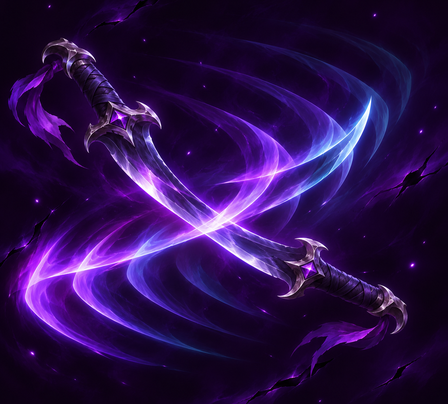
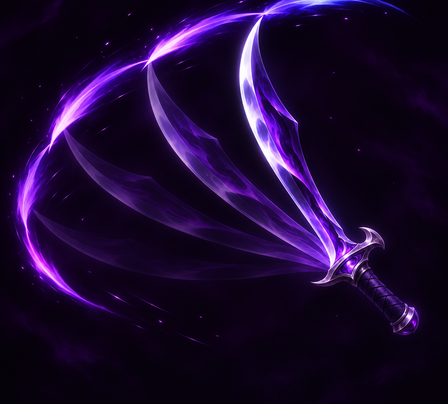
R804：连斩 9272 卡图重出 —— 构图改为「同一护手扇面展开」的多重刀影
R803 那版是两把刀对称交叉成 X，读作双持/格挡，且交叉处刀身互穿、两端刀柄
都在卡面可见带外。问题出在 prompt 设定（原文写着「两把交错挥出的短弯刀」）。

新版约束：全图只允许一处刀柄/护手，4 道刀身从同一护手呈扇面辐射，
最外侧最亮最实（最后一刀）、越内越虚，四条刃光连成一条大弧线作节奏线。
两版候选中取 b（弯刃实体感在、护手与刀柄完整落在可见带内）；
c 版虽铺满更亮，但刀身变直线光条读作羽扇、护手贴边刀柄被裁，弃用。

裁切 dy=+40（主体天然偏右下），成品 448×404，md5 11ce956e。

验证：九套回归全绿 engine 6637 / traps 206 / trapinput 77 / smoke 75 /
reward 26 / bgm 39 / content 15 / assemble 0 / mana PASS；存档 md5 一致。

diff --git a/tools/_make_r804_cardart.py b/tools/_make_r804_cardart.py
@@ -1,0 +1,69 @@
+# -*- coding: utf-8 -*-
+"""R804：连斩 9272 卡图重出（构图修正：同一护手扇面，非双刀交叉）→ 448×404。
+
+因为主体偏右下（刀柄在角落），先出几个垂直偏移的候选，再用「可见带」预览挑一个。
+可见带口径：448×404 的第 68..335 行（CARD_ART_RATIO=0.662），只有这段真的会显示。
+"""
+import os
+
+from PIL import Image, ImageDraw
+
+ROOT = "E:/work/card_rogue/"
+BASE = ROOT + "art_src/2026-11-18_连斩_重出_R804/"
+SRC = BASE + "raw/card_9272_b.png"
+OUTP = BASE + "processed/"
+TARGET = (448, 404)
+RATIO = TARGET[0] / float(TARGET[1])
+BAND = (68, 335)  # 可见带行号
+
+os.makedirs(OUTP, exist_ok=True)
+
+
+def prep(im, dy=0):
+    """dy：裁窗垂直偏移（原图尺度像素，正=裁窗下移、保住画面下方）。"""
+    w, h = im.size
+    tw = int(round(h * RATIO))
+    if tw <= w:
+        left = (w - tw) // 2
+        box = (left, 0, left + tw, h)
+    else:
+        th = int(round(w / RATIO))
+        top = (h - th) // 2 + dy
+        top = max(0, min(h - th, top))
+        box = (0, top, w, top + th)
+    return im.crop(box).resize(TARGET, Image.LANCZOS), box
+
+
+def band_preview(im404, path):
+    """模拟卡面：可见带之外压暗，用来判断主体有没有掉出显示区。"""
+    pv = im404.copy().convert("RGB")
+    ov = Image.new("RGB", pv.size, (0, 0, 0))
+    pv.paste(Image.blend(pv.crop((0, 0, 448, BAND[0])), ov.crop((0, 0, 448, BAND[0])), 0.78), (0, 0))
+    pv.paste(Image.blend(pv.crop((0, BAND[1], 448, 404)), ov.crop((0, BAND[1], 448, 404)), 0.78),
+             (0, BAND[1]))
+    d = ImageDraw.Draw(pv)
+    d.line([(0, BAND[0]), (447, BAND[0])], fill=(255, 60, 60), width=1)
+    d.line([(0, BAND[1]), (447, BAND[1])], fill=(255, 60, 60), width=1)
+    pv.save(path)
+
+
+src = Image.open(SRC).convert("RGB")
+CAND = [("dy-60", -60), ("dy0", 0), ("dy+40", 40), ("dy+80", 80)]
+made = []
+for tag, dy in CAND:
+    im404, box = prep(src, dy)
+    p = OUTP + "9272_b_%s.png" % tag
+    im404.save(p)
+    band_preview(im404, OUTP + "pv_%s.png" % tag)
+    made.append((tag, box, p))
+    print("  %-8s crop=%s" % (tag, box))
+
+# 四联对比（含可见带蒙版）
+cell = (448, 404)
+sheet = Image.new("RGB", (cell[0] * 4, cell[1] + 24), (24, 20, 30))
+for i, (tag, box, p) in enumerate(made):
+    sheet.paste(Image.open(OUTP + "pv_%s.png" % tag), (i * cell[0], 0))
+    d = ImageDraw.Draw(sheet)
+    d.text((i * cell[0] + 8, cell[1] + 6), "9272 %s  crop_top=%d" % (tag, box[1]), fill=(235, 220, 255))
+sheet.resize((sheet.width // 2, sheet.height // 2), Image.LANCZOS).save(OUTP + "_compare.png")
+print("done ->", OUTP + "_compare.png")

diff --git a/tools/_make_r804_compare3.py b/tools/_make_r804_compare3.py
@@ -1,0 +1,74 @@
+# -*- coding: utf-8 -*-
+"""R804：b / c 两版连斩卡图 → 448×404，并出三联对比（含可见带蒙版 + 实际尺寸）。"""
+import os
+
+from PIL import Image, ImageDraw
+
+ROOT = "E:/work/card_rogue/"
+BASE = ROOT + "art_src/2026-11-18_连斩_重出_R804/"
+RAW = BASE + "raw/"
+OUT = BASE + "processed/"
+TARGET = (448, 404)
+RATIO = TARGET[0] / float(TARGET[1])
+BAND = (68, 335)
+
+os.makedirs(OUT, exist_ok=True)
+
+
+def prep(im, dy=0):
+    w, h = im.size
+    tw = int(round(h * RATIO))
+    if tw <= w:
+        left = (w - tw) // 2
+        box = (left, 0, left + tw, h)
+    else:
+        th = int(round(w / RATIO))
+        top = max(0, min(h - th, (h - th) // 2 + dy))
+        box = (0, top, w, top + th)
+    return im.crop(box).resize(TARGET, Image.LANCZOS), box
+
+
+def band(im404, dim=0.8):
+    pv = im404.copy().convert("RGB")
+    ov = Image.new("RGB", pv.size, (0, 0, 0))
+    pv.paste(Image.blend(pv.crop((0, 0, 448, BAND[0])), ov.crop((0, 0, 448, BAND[0])), dim), (0, 0))
+    pv.paste(Image.blend(pv.crop((0, BAND[1], 448, 404)), ov.crop((0, BAND[1], 448, 404)), dim),
+             (0, BAND[1]))
+    return pv
+
+
+old = Image.open(ROOT + "assets/pics/9272.png").convert("RGB")
+jobs = [("old", old, 0)]
+for tag, src, dy in [("b", "card_9272_b.png", 40), ("c", "card_9272_c.png", 30)]:
+    im, box = prep(Image.open(RAW + src).convert("RGB"), dy)
+    im.save(OUT + "9272_%s.png" % tag)
+    jobs.append((tag, im, box[1]))
+    print("  %s crop_top=%d" % (tag, box[1]))
+
+# 三联：完整图 3 张 + 可见带 3 张（上下两排）
+W, H = 448, 404
+sheet = Image.new("RGB", (W * 3 + 20, H * 2 + 56), (22, 18, 28))
+d = ImageDraw.Draw(sheet)
+for i, (tag, im, top) in enumerate(jobs):
+    x = i * (W + 10)
+    sheet.paste(im, (x, 0))
+    sheet.paste(band(im), (x, H + 24))
+    d.text((x + 8, H + 6), "9272_%s  top=%d" % (tag, top), fill=(236, 222, 255))
+sheet.save(OUT + "_compare3_full.png")
+print("_compare3_full.png", sheet.size)
+
+# 实际尺寸对照（手牌 99×119）
+sheet2 = Image.new("RGB", (99 * 3 + 200, 190), (22, 18, 28))
+d2 = ImageDraw.Draw(sheet2)
+x = 16
+for tag, im, _ in jobs:
+    artscale = 119 * 0.66
+    aw = artscale * 448.0 / 404.0
+    a = im.resize((int(aw), int(artscale)), Image.LANCZOS)
+    card = Image.new("RGB", (99, 119), (40, 32, 52))
+    card.paste(a, ((99 - a.width) // 2, 12))
+    sheet2.paste(card.resize((99 * 2, 119 * 2), Image.NEAREST), (x, 20))
+    d2.text((x, 4), tag, fill=(236, 222, 255))
+    x += 99 * 2 + 30
+sheet2.save(OUT + "_compare3_size.png")
+print("_compare3_size.png", sheet2.size)

diff --git a/tools/_make_r804_ab.py b/tools/_make_r804_ab.py
@@ -1,0 +1,66 @@
+# -*- coding: utf-8 -*-
+"""R804：连斩新旧版本 A/B 对比（完整图 + 可见带蒙版 + 实际卡面尺寸）。
+
+旧版 = assets/pics/9272.png（R803 codex 出的双刀交叉版）
+新版 = processed/9272_b_dy+40.png
+"""
+import os
+
+from PIL import Image, ImageDraw
+
+ROOT = "E:/work/card_rogue/"
+BASE = ROOT + "art_src/2026-11-18_连斩_重出_R804/"
+OUT = BASE + "processed/"
+BAND = (68, 335)
+
+OLD = ROOT + "assets/pics/9272.png"
+NEW = OUT + "9272_b_dy+40.png"
+
+
+def band(im404):
+    pv = im404.copy().convert("RGB")
+    ov = Image.new("RGB", pv.size, (0, 0, 0))
+    pv.paste(Image.blend(pv.crop((0, 0, 448, BAND[0])), ov.crop((0, 0, 448, BAND[0])), 0.8), (0, 0))
+    pv.paste(Image.blend(pv.crop((0, BAND[1], 448, 404)), ov.crop((0, BAND[1], 448, 404)), 0.8),
+             (0, BAND[1]))
+    return pv
+
+
+old = Image.open(OLD).convert("RGB")
+new = Image.open(NEW).convert("RGB")
+
+# 1) 大图对比：旧 / 新 / 旧可见带 / 新可见带
+cols = [old, new, band(old), band(new)]
+sheet = Image.new("RGB", (448 * 4 + 30, 404 + 26), (22, 18, 28))
+d = ImageDraw.Draw(sheet)
+labels = ["old 9272", "new 9272", "old band", "new band"]
+for i, c in enumerate(cols):
+    x = i * (448 + 10)
+    sheet.paste(c, (x, 0))
+    d.text((x + 8, 408), labels[i], fill=(236, 222, 255))
+sheet.save(OUT + "_ab_full.png")
+print("_ab_full.png", sheet.size)
+
+# 2) 实际尺寸对比：战场 77×92、手牌 99×119（卡图区按 448:404 等比内嵌）
+rows = []
+for name, (cw, ch) in [("battle 77x92", (77, 92)), ("hand 99x119", (99, 119))]:
+    rows.append((name, cw, ch))
+sheet2 = Image.new("RGB", (600, 300), (22, 18, 28))
+d2 = ImageDraw.Draw(sheet2)
+y = 16
+for name, cw, ch in rows:
+    d2.text((12, y), name, fill=(236, 222, 255))
+    x = 130
+    for tag, im in [("old", old), ("new", new)]:
+        # 卡图区：卡面高度约 66%，宽度按 448:404 比例
+        artscale = ch * 0.66
+        aw = artscale * 448.0 / 404.0
+        a = im.resize((max(1, int(aw)), max(1, int(artscale))), Image.LANCZOS)
+        card = Image.new("RGB", (cw, ch), (40, 32, 52))
+        card.paste(a, ((cw - a.width) // 2, int(ch * 0.10)))
+        sheet2.paste(card, (x, y - 4))
+        d2.text((x, y + ch), tag, fill=(200, 190, 220))
+        x += cw + 60
+    y += ch + 54
+sheet2.save(OUT + "_ab_size.png")
+print("_ab_size.png", sheet2.size)

diff --git a/art_src/2026-11-18_连斩_重出_R804/README.md b/art_src/2026-11-18_连斩_重出_R804/README.md
@@ -1,0 +1,43 @@
+# R804 —— 连斩 9272 卡图重出（构图修正）
+
+## 为什么重出
+
+R803 那版被指出「构图不太符合逻辑」。复核后问题**出在 prompt 设定本身，不是模型画歪**：
+
+| 现象 | 为什么逻辑不通 |
+| --- | --- |
+| 两把刀对称交叉成 X | 「连斩」是**同一柄刀连续斩击 X 次**；两把刀交叉读作双持 / 格挡封架 / 交叉斩，是另一种技能 |
+| 交叉处刀身互相穿透 | 两把实体刀刃不可能互穿而无碰撞；视觉上像两根玻璃棒叠着，读者会找火花却找不到 |
+| 完全左右对称 | 对称 = 静态装饰（剪刀、蝴蝶结），没有任何「连续」的时间信息 |
+| 卡面可见带里两端刀柄均被切 | 448×404 的第 68..335 行才是实际显示区，刀柄正好掉在下缘外 |
+
+## 新版的构图规则
+
+一句话：**全图只允许出现一处刀柄 / 护手**，其余都是它的残影。
+
+- 唯一护手固定在画面右下偏中，4 道刀身从它呈扇面辐射（每道差约 20°）；
+- 最外侧那道最亮最实（最后挥出的一刀），越靠内越虚 → 透明度梯度直接编码了先后顺序；
+- 四条刃光首尾相接，连成一条左下绕到右上、略微收拢的大弧线 = 全图「节奏线」；
+- 这条约束同时消灭了三种误读：双持（只有一处刀柄）、对称装饰（扇面是单向的）、静态（弧线给出顺序）。
+
+## 两版候选与取舍
+
+| 文件 | 结论 |
+| --- | --- |
+| `raw/card_9272_b.png` | **采用**。弯刃实体感保留，护手与刀柄完整落在可见带内，弧线在带内闭合 |
+| `raw/card_9272_c.png` | 弃用。横向铺满、更亮，但刀身变成从护手**直线**辐射的光条，读作羽扇 / 孔雀开屏；且护手贴右缘、刀柄大半被裁，「同一把刀」的辨识点反而丢了 |
+
+`_compare3_full.png` 是 old / b / c 三联（上排原图、下排可见带蒙版），`_compare3_size.png` 是手牌实际尺寸对照。
+
+## 裁切
+
+`tools/_make_r804_cardart.py`。主体天然偏右下，所以试了 dy = −60 / 0 / +40 / +80 四个垂直偏移，
+取 **dy=+40**（裁窗 top=90）——刀柄尾部切掉约 5%，但护手与握把主体完整，刀柄像从画外伸入，反而自然。
+
+成品：`assets/pics/9272.png`（448×404 RGB，md5 `11ce956ed852c5211628feb62313b57c`）。
+
+## 脚本
+
+- `tools/_make_r804_cardart.py` —— 四偏移候选 + 可见带预览
+- `tools/_make_r804_ab.py` —— 新旧 A/B（含 77×92 / 99×119 实际尺寸）
+- `tools/_make_r804_compare3.py` —— old/b/c 三联 + 手牌尺寸对照
